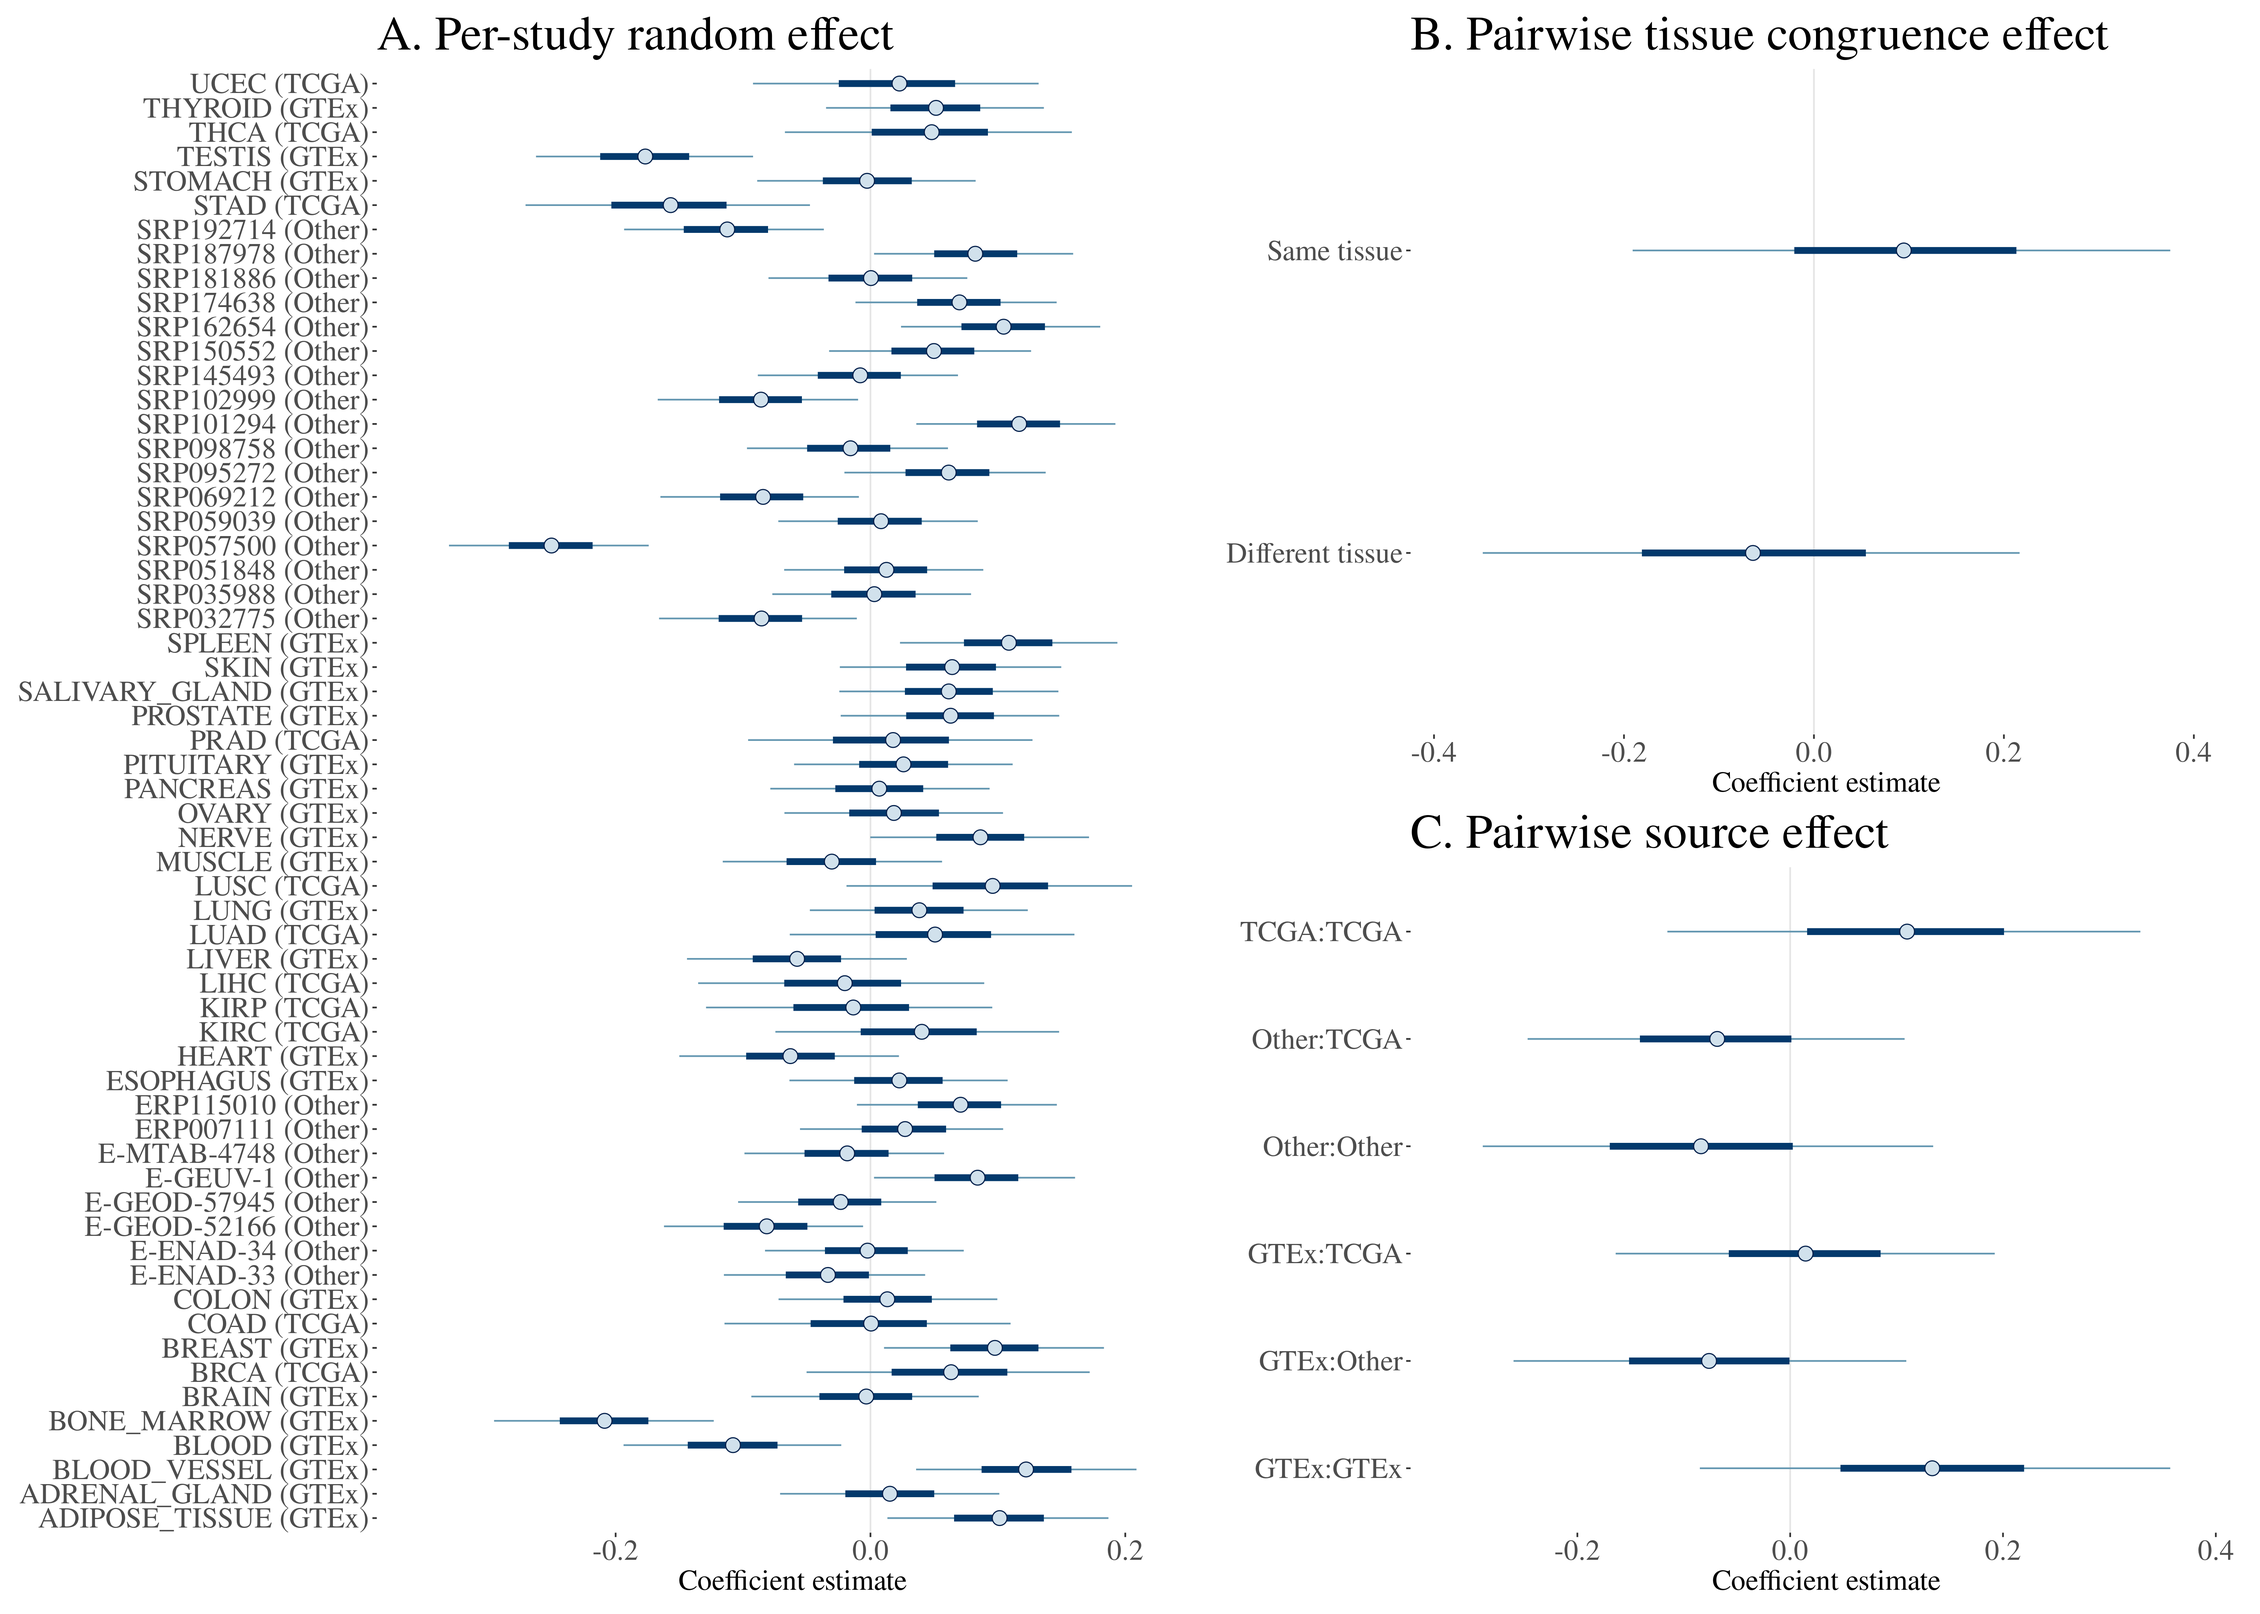
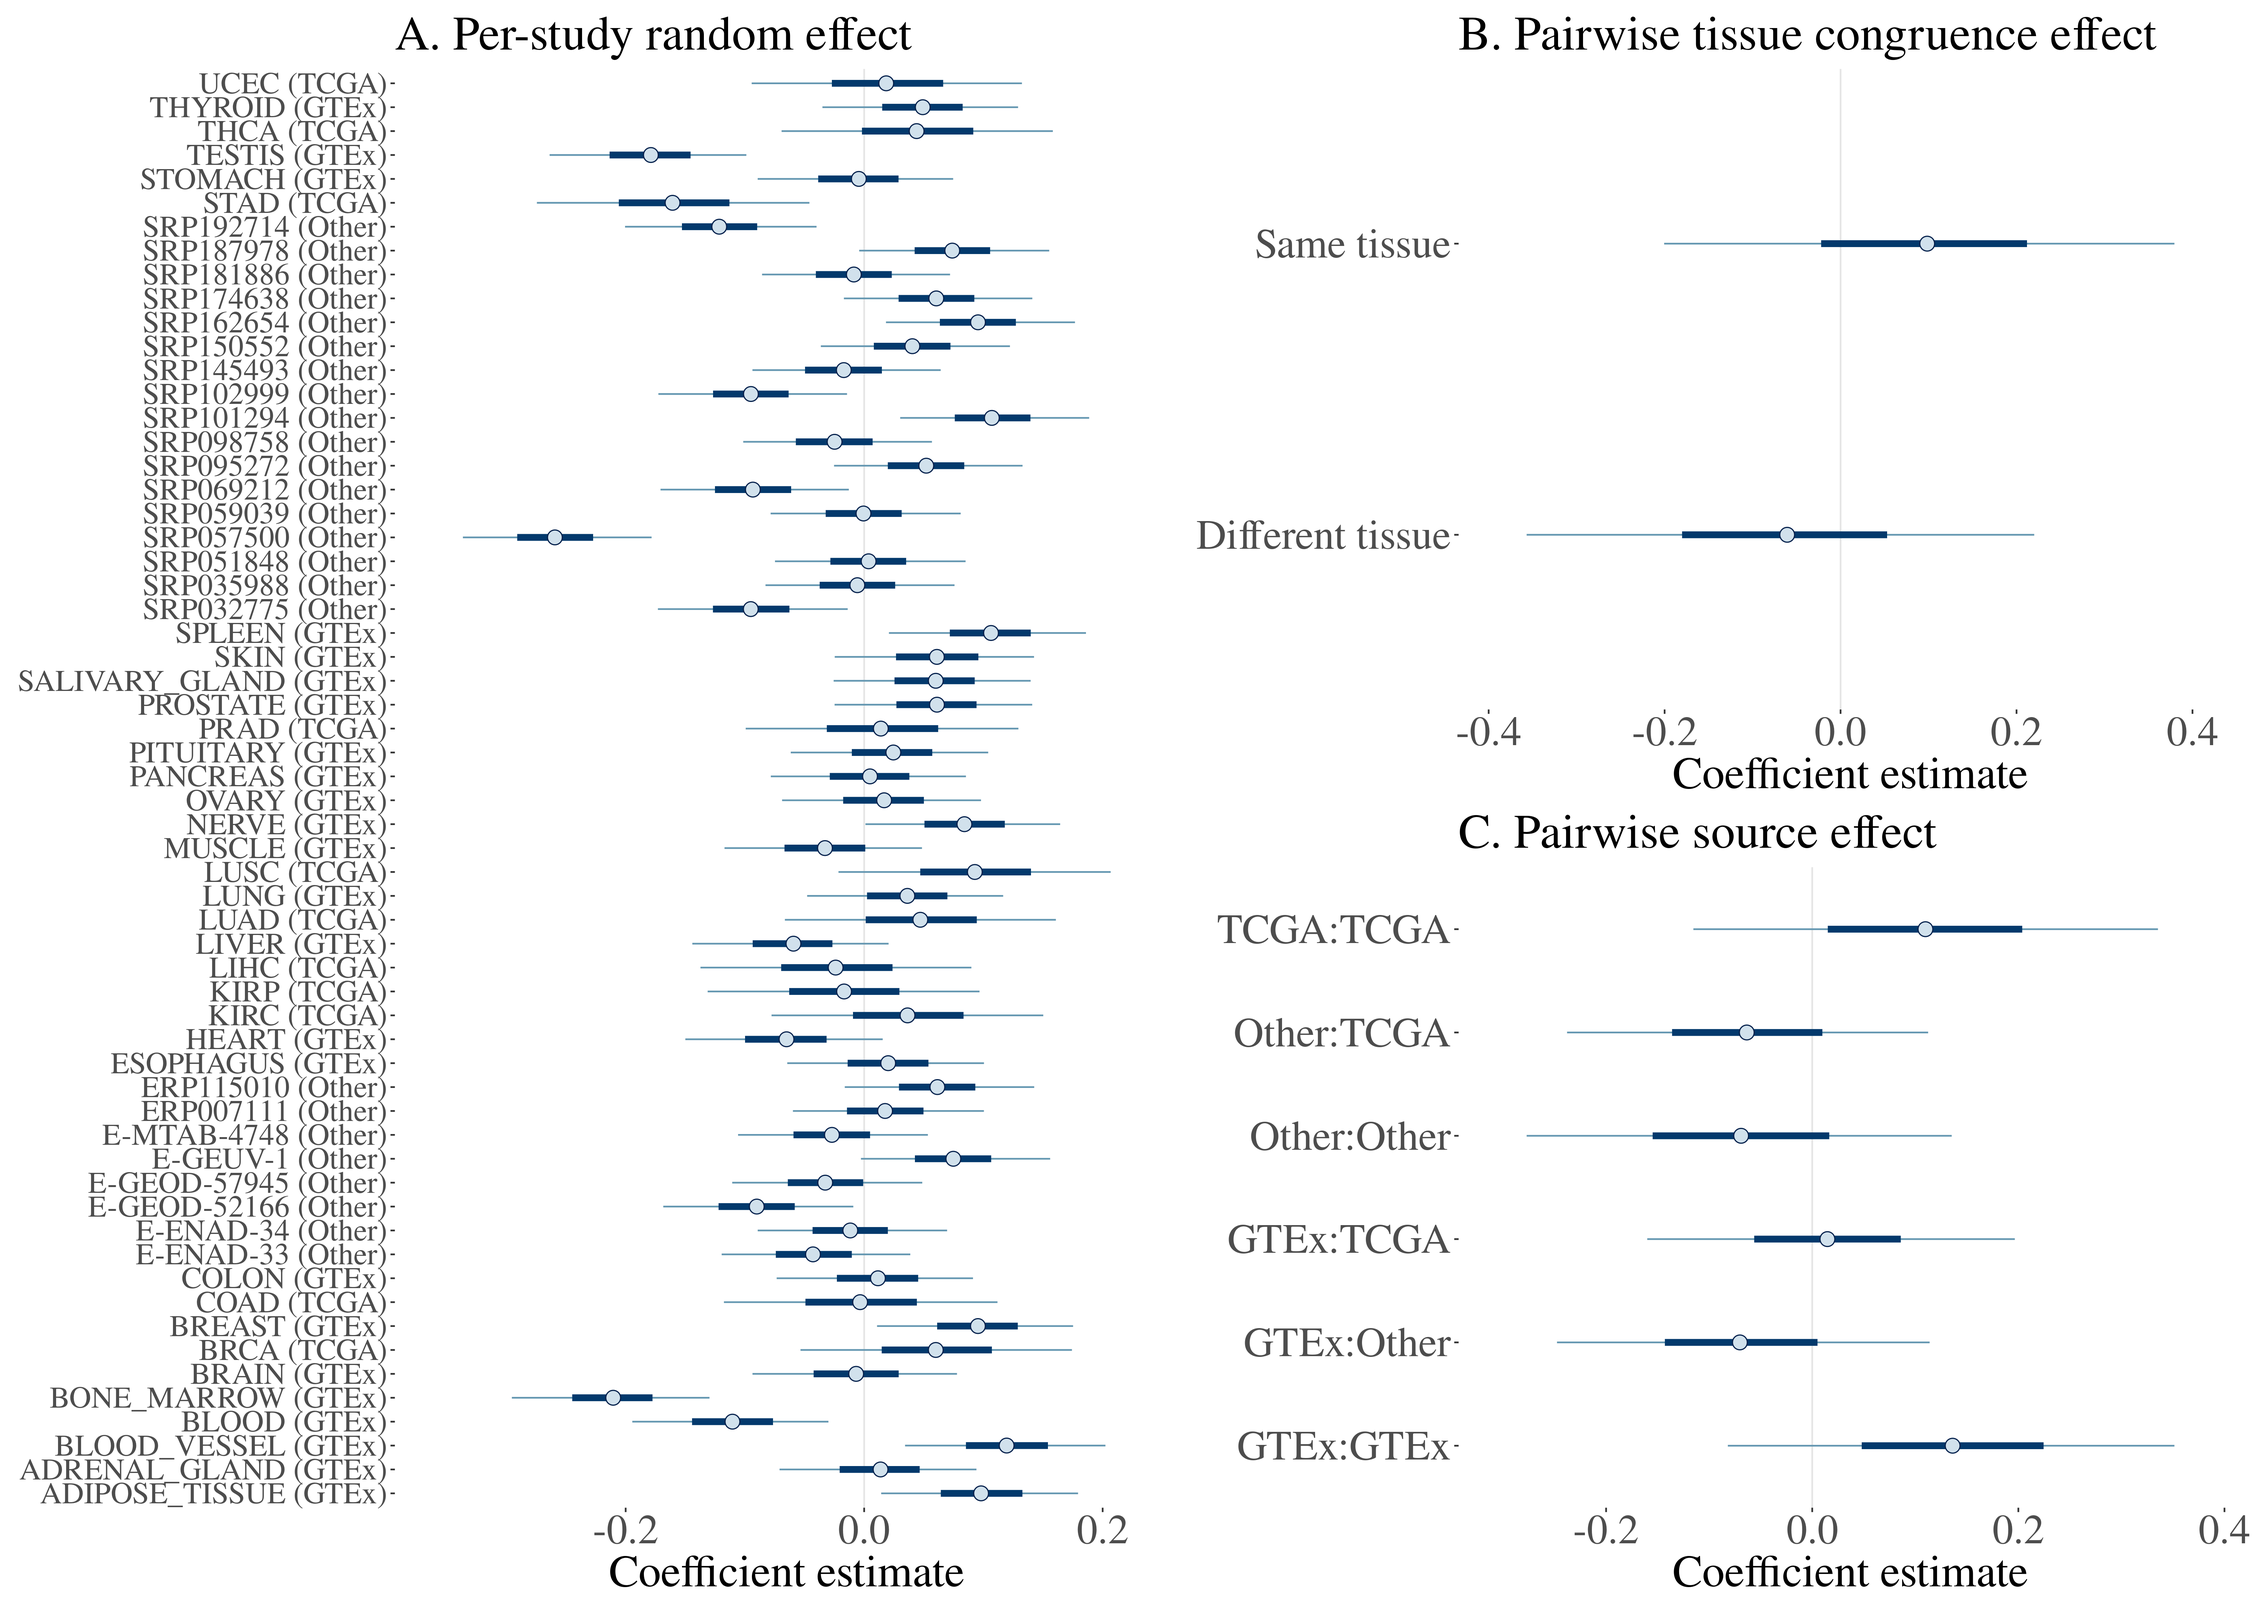
more better figures

diff --git a/main.md b/main.md
@@ -175,6 +175,12 @@ To create this rank, we use the score of each gene in the first principal compon
 This generates a ranked list of genes, with most variable genes having highest rank.
 The red and blue ticks at the bottom of [@fig:sd_corr]D show the positions on the standard deviation distributions of the least and most variable genes in our variation rank.
 
+\begin{figure*}[t!]
+    \centering
+    \includegraphics[width=\linewidth]{figures/correlationModeling.png}
+    \caption{Coefficients estimates from a linear model using the among studies Spearman correlations as the response variable. These correlations are shown in fig.~\ref{fig:sd_corr}A and B. In the linear model, correlations are Fisher z-transformed. Study source and tissue are added as fixed effects. Coefficient estimates are shown with 50\% and 95\% credibility intervals. Panel A: The per-study random effect captures the non-independence of the correlation values and estimates the characteristic contribution of each study to the correlation. For example: comparisons involving bone marrow (from GTEx) tend to be lower than the others. Panels B and C: Fixed effect estimates: correlations among studies that use the same tissue are higher, and correlations involving studies in the ``Other''  category (non GTEx and TCGA) tend to be lower, while comparison involving GTEx and TCGA are higher.}
+    \label{fig:corr_model}
+\end{figure*}
 
 __What drives differences in gene expression variation?:__ To characterize the drivers of across study similarity, we directly model the correlations across studies using a mixed effect linear model [@Dias2021-wk; @Dias2021-hb]. 
 In this mode, we use study, sampled tissue and study origin as predictors of the pairwise correlations (see Methods).
@@ -183,15 +189,6 @@ Since these two sources are independent, this effect on the similarities could b
 Tissue also affects the similarity between gene expression SD, with studies using the same tissue being, on average, more similar ([@fig:corr_model]B).
 The largest effects on the correlations are those associated with individual studies, in particular some specific tissues, i.e., comparisons involving bone marrow (from GTEx) and study SRP057500 (which used platelets) are on average lower ([@fig:corr_model]A).
 These studies also show up further away in the PCoA plot in [@fig:sd_corr]C.
-
-\begin{figure*}[t!]
-    \centering
-    \includegraphics[width=\linewidth]{figures/correlationModeling.png}
-    \caption{Coefficients estimates from a linear model using the among studies Spearman correlations as the response variable. These correlations are shown in \ref{fig:sd_corr}A and B. In the linear model, correlations are Fisher z-transformed. Study source and tissue are added as fixed effects. Coefficient estimates are shown with 50\% and 95\% credibility intervals. Panel A: The per-study random effect captures the non-independence of the correlation values and estimates the characteristic contribution of each study to the correlation. For example: comparisons involving bone marrow (from GTEx) tend to be lower than the others. Panels B and C: Fixed effect estimates: correlations among studies that use the same tissue are higher, and correlations involving studies in the ``Other''  category (non GTEx and TCGA) tend to be lower, while comparison involving GTEx and TCGA are higher.}
-    \label{fig:corr_model}
-\end{figure*}
-
-\pagebreak
 
 ## Gene Ontology enrichment
 
